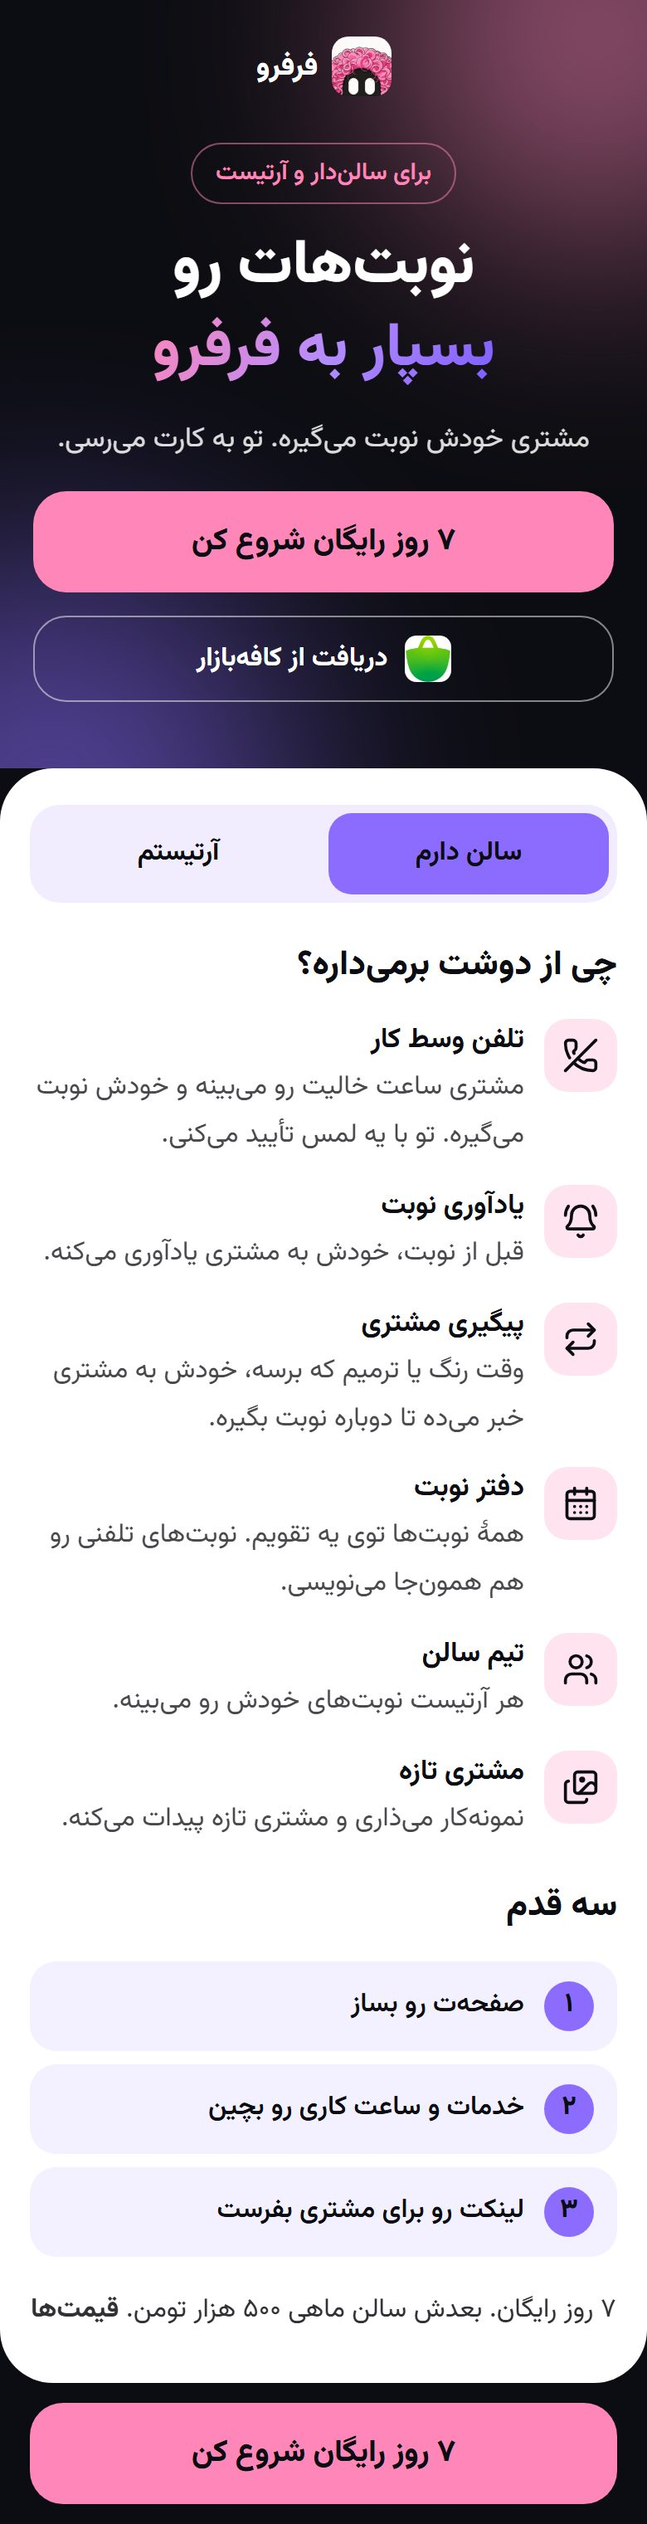
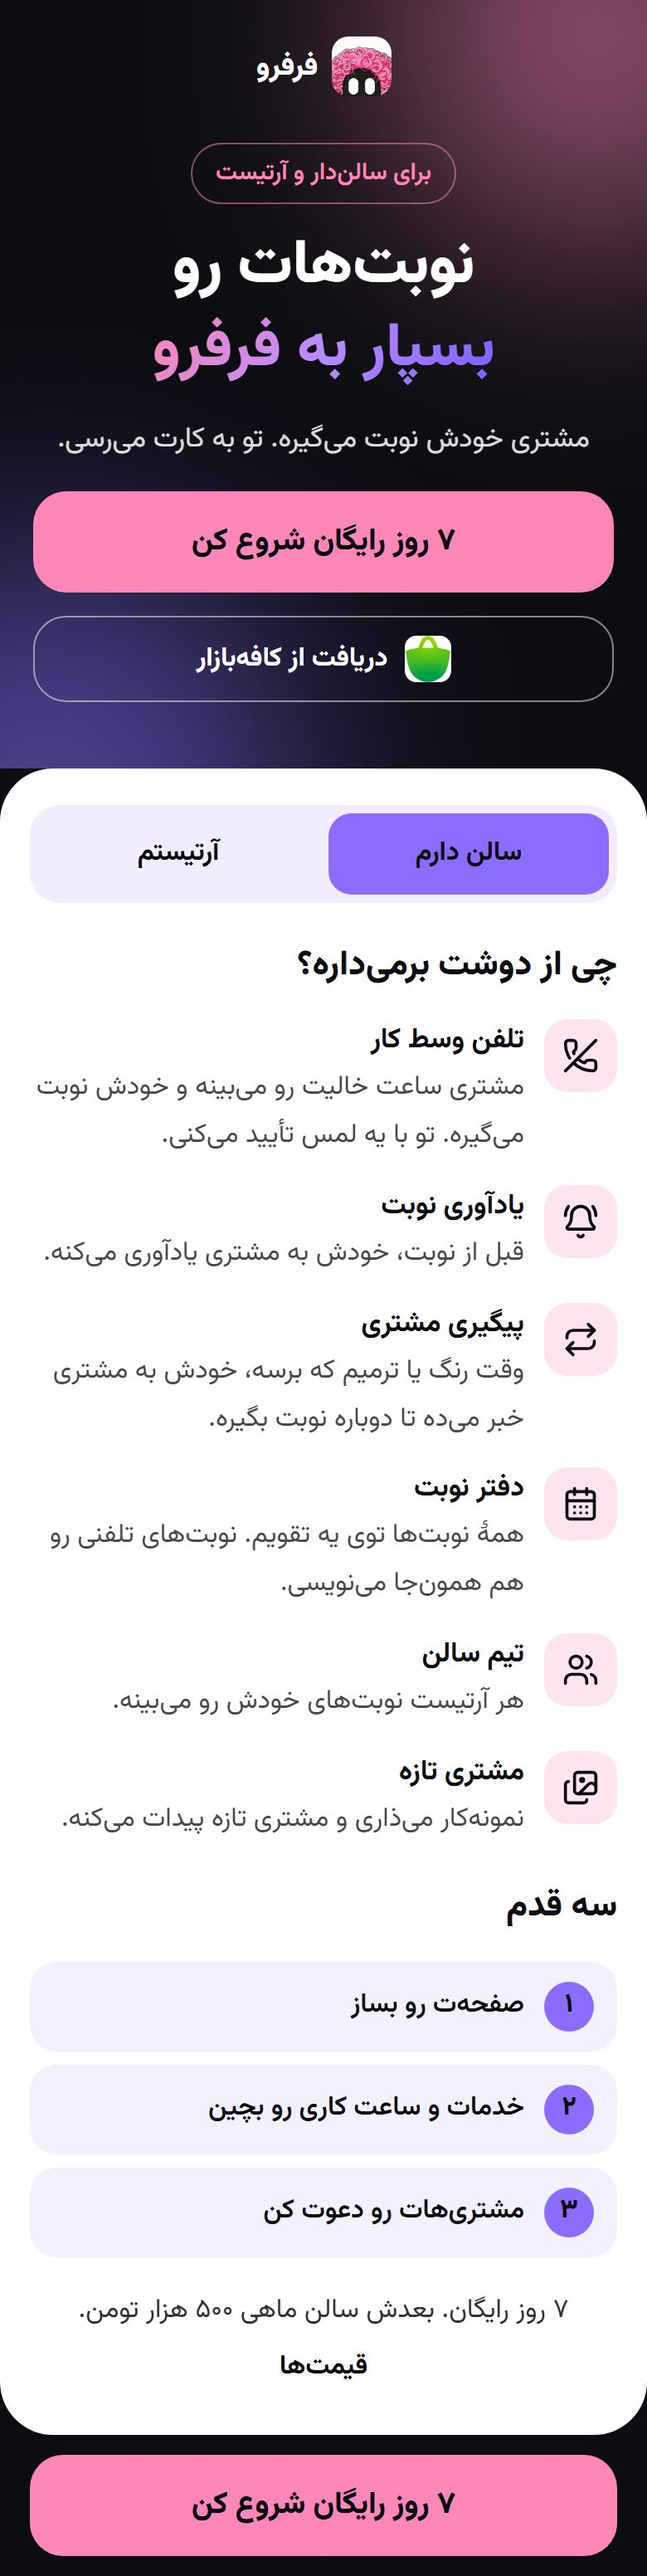
SMS page: third step invites customers, price link on its own line

diff --git a/app/styles/features/pro.css b/app/styles/features/pro.css
@@ -66,7 +66,7 @@
   text-decoration: none;
 }
 .proPage__bazaar img { width: 28px; height: 28px; border-radius: 7px; background: var(--p-paper); }
-.proPage__cta:focus-visible, .proPage__bazaar:focus-visible, .proPage__roles button:focus-visible, .proPage__price a:focus-visible { outline: 3px solid var(--p-violet); outline-offset: 3px; }
+.proPage__cta:focus-visible, .proPage__bazaar:focus-visible, .proPage__roles button:focus-visible, .proPage__priceLink:focus-visible { outline: 3px solid var(--p-violet); outline-offset: 3px; }
 
 .proPage__body {
   position: relative;
@@ -87,12 +87,12 @@
 .proPage__points li { display: grid; grid-template-columns: auto 1fr; gap: 12px; align-items: start; }
 .proPage__icon { display: grid; place-items: center; width: 44px; height: 44px; border-radius: 14px; background: rgb(var(--brand-pink-rgb) / 0.22); color: var(--p-ink); }
 .proPage__points b { display: block; font-size: 1.05rem; }
-.proPage__points p { margin: 2px 0 0; line-height: 1.8; opacity: 0.75; }
+.proPage__points p { margin: 2px 0 0; line-height: 1.8; opacity: 0.75; text-wrap: pretty; }
 .proPage__steps { margin: 0; padding: 0; list-style: none; display: grid; gap: 8px; counter-reset: pro; }
 .proPage__steps li { counter-increment: pro; display: flex; align-items: center; gap: 12px; padding: 12px 14px; border-radius: 16px; background: rgb(var(--brand-violet-rgb) / 0.1); font-weight: 600; }
 .proPage__steps li::before { content: counter(pro, persian); display: grid; place-items: center; flex: none; width: 30px; height: 30px; border-radius: 50%; background: var(--p-violet); color: var(--p-ink); font-weight: 800; }
 .proPage__price { margin: 0; text-align: center; line-height: 1.9; opacity: 0.85; }
-.proPage__price a { color: var(--p-ink); font-weight: 700; }
+.proPage__priceLink { justify-self: center; margin-top: -12px; color: var(--p-ink); font-weight: 700; }
 
 .proPage__bar {
   position: fixed;

diff --git a/app/features/landing/ProScreen.jsx b/app/features/landing/ProScreen.jsx
@@ -35,7 +35,7 @@ const POINTS = {
   ]
 };
 
-const STEPS = ["صفحهت رو بساز", "خدمات و ساعت کاری رو بچین", "لینکت رو برای مشتری بفرست"];
+const STEPS = ["صفحهت رو بساز", "خدمات و ساعت کاری رو بچین", "مشتریهات رو دعوت کن"];
 
 function beacon(source, kind) {
   try {
@@ -121,8 +121,9 @@ export function ProScreen({ trialDays, salonPrice, artistPrice }) {
         </ol>
 
         <p className="proPage__price">
-          {trialDays} روز رایگان. بعدش {role === "salon" ? `سالن ماهی ${salonPrice}` : `آرتیست ماهی ${artistPrice}`} هزار تومن. <Link href="/pricing">قیمتها</Link>
+          {trialDays} روز رایگان. بعدش {role === "salon" ? `سالن ماهی ${salonPrice}` : `آرتیست ماهی ${artistPrice}`} هزار تومن.
         </p>
+        <Link className="proPage__priceLink" href="/pricing">قیمتها</Link>
       </section>
 
       <div className="proPage__bar">

diff --git a/docs/ROADMAP.md b/docs/ROADMAP.md
@@ -533,3 +533,5 @@
 کارتبهکارت خودکار و تسهیم را صاحب محصول رد کرد (`docs/DECISIONS.md`). بیعانه با درگاه فرفرو و واریز شبانه به شبا شدنی است ولی شرکت، اینماد، قرارداد کتبی با درگاه، وکیل و حسابدار میخواهد (صفحهها: https://claude.ai/artifact/2sUgAHoz56Supj4aM386eY و https://claude.ai/artifact/LqEABhuZEGA9YFtiuxmuKQ). پیشنهاد Claude بهجای آن، «اطمینان بدون بیعانه» در پنج پله: «میای؟» روز قبل با دو دکمه، سابقهٔ آمد/نیامد مشتری در کل فرفرو کنار اسمش، تأیید سالن بعد از دو «نیومد» در شش ماه، صف انتظار برای ساعت پر، و بیعانهٔ واقعی بعداً فقط برای بدقولها (صفحه: https://claude.ai/artifact/PmhioRKomAVBGGMowhFEsd).
 
 **ساخته شد (۲۷ اکتبر ۲۰۲۶، به درخواست صاحب محصول):** پلههای ۱ تا ۴ (`docs/DECISIONS.md`). پلهٔ سوم به هشدار روی درخواست تبدیل شد، چون همهٔ درخواستها از قبل تأیید سالن میخواهند. باز مانده: الگوی پیامک `WAITLIST_OPEN` را صاحب محصول در پنل پیامک بسازد (`docs/OPERATIONS.md`)؛ پلهٔ پنجم (بیعانهٔ واقعی برای بدقولها) بعد از ثبت شرکت.
+
+- (2026-11-10, owner's idea while planning the first SMS ad) A salon or artist types or pastes the list of their customers' phone numbers and frfro invites and connects them on its own. Today there is only the counter QR, the ready message with the page link, scanning a client's code, and picking one phone contact to write a booking for. Needs the owner's answers first (who pays for the invite SMS, how many at once, what the customer receives and how they say no).
